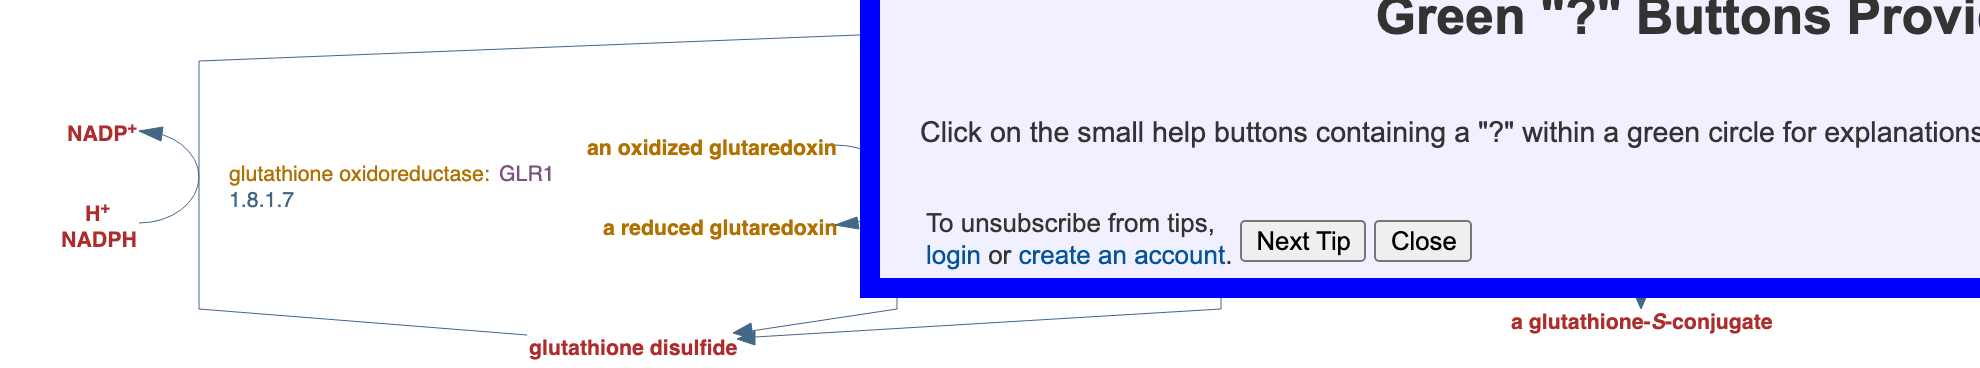
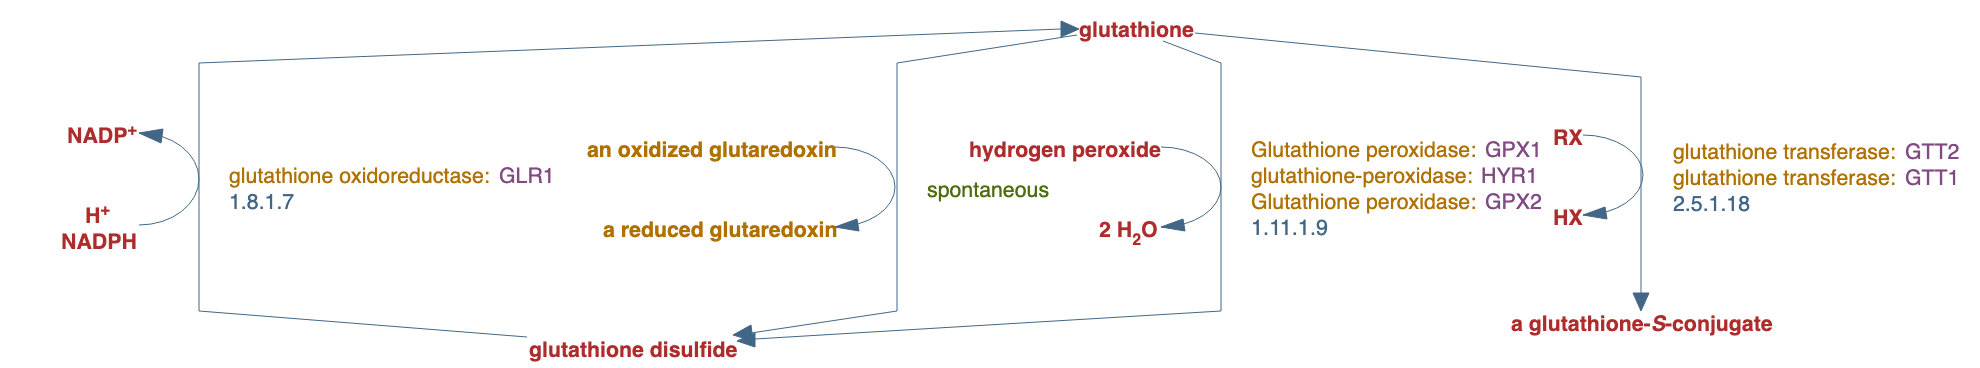
fix(pathway): re-capture 23 diagram images without UI overlay artifacts
23 of the 220 pre-captured pathway diagrams contained YeastPathways UI
overlays: the intermittent 'Green ?' tips popup (11 images) and/or the
OPERATIONS side panel (13 images, PRPP-PWY-1 had both). Re-captured
with the same recipe (NEW-IMAGE detail-level=2, 2x scale, diagram
canvas element screenshot) after removing #navBox and the tip dialog
before each shot. All 23 verified pixel- and visually-clean and match
the original image dimensions exactly.

Add scripts/capture_pathway_images.py so future re-captures reuse the
recipe and overlay dismissal instead of reconstructing them.

diff --git a/scripts/capture_pathway_images.py b/scripts/capture_pathway_images.py
@@ -1,0 +1,122 @@
+"""Re-capture SGD pathway diagram images from YeastPathways.
+
+Same recipe as the original capture (detail-level=2, 2x scale, screenshot of the
+diagram canvas element) plus dismissal of the two UI overlays that contaminated
+the first pass: the "Green ?" tip popup and the OPERATIONS side panel (#navBox).
+"""
+import sys
+import numpy as np
+from PIL import Image
+from playwright.sync_api import sync_playwright
+
+IDS = [
+    "ALL-CHORISMATE-PWY-1", "ARO-PWY-1", "COMPLETE-ARO-PWY-1", "DENOVOPURINE2-PWY",
+    "GLUT-REDOX2-PWY", "P4-PWY-1", "PHOS-PWY", "PRPP-PWY-1", "PWY-2201", "PWY-6125",
+    "PWY3O-1", "PWY3O-2", "PWY3O-20", "PWY3O-285", "PWY3O-4108", "PWY3O-4153",
+    "PWY3O-450", "PWY3O-5962", "PWY3O-661", "PWY3O-8514", "PWY3O-862",
+    "SPHINGOLIPID-SYN-PWY-1", "YEAST-RNT-SALV",
+]
+URL = "https://pathway.yeastgenome.org/YEAST/NEW-IMAGE?type=PATHWAY&object={}&detail-level=2"
+CANVAS = '[id^="canvas-WG_"][id*="_PWY_DIAGRAM"]'
+
+CLEANUP_JS = """() => {
+    const removed = [];
+    // 1. OPERATIONS side panel
+    const nav = document.getElementById('navBox');
+    if (nav) { nav.remove(); removed.push('navBox'); }
+    // 2. Tip popup ("Green ? Buttons Provide Help" / "Pathway Tools Tip") -
+    //    remove the outermost absolutely-positioned ancestor of the tip text
+    for (const el of [...document.querySelectorAll('div')]) {
+        const t = el.textContent || '';
+        if (/Provide Help|Next Tip|Pathway Tools Tip/.test(t)) {
+            let target = null, a = el;
+            while (a && a !== document.body) {
+                const pos = getComputedStyle(a).position;
+                if (pos === 'absolute' || pos === 'fixed') target = a;
+                a = a.parentElement;
+            }
+            if (target) { target.remove(); removed.push('tipBox'); break; }
+        }
+    }
+    // 3. Belt and braces: hide any remaining positioned overlay that intersects
+    //    the diagram canvas (except the transparent WGoverlayCanvas, which the
+    //    original captures included)
+    const canvas = document.querySelector('CANVAS_SEL');
+    const c = canvas.getBoundingClientRect();
+    for (const el of [...document.body.querySelectorAll('div, table, ul')]) {
+        if (el.contains(canvas) || canvas.contains(el)) continue;
+        const s = getComputedStyle(el);
+        if (s.position !== 'absolute' && s.position !== 'fixed') continue;
+        if (s.visibility === 'hidden' || s.display === 'none') continue;
+        const r = el.getBoundingClientRect();
+        if (r.width < 5 || r.height < 5) continue;
+        const overlaps = r.left < c.right && r.right > c.left &&
+                         r.top < c.bottom && r.bottom > c.top;
+        if (overlaps && el.id !== 'WGoverlayCanvas') {
+            el.style.visibility = 'hidden';
+            removed.push('overlay:' + (el.id || el.className || el.tagName));
+        }
+    }
+    return removed;
+}""".replace("CANVAS_SEL", CANVAS)
+
+
+def has_artifacts(path):
+    a = np.asarray(Image.open(path).convert("RGB"))
+    r, g, b = a[:, :, 0].astype(int), a[:, :, 1].astype(int), a[:, :, 2].astype(int)
+    blue = int(((b > 180) & (r < 100) & (g < 100)).sum())
+    grey = (abs(r - g) < 8) & (abs(g - b) < 8) & (abs(r - b) < 8) & (r > 215) & (r < 250)
+    h, w = grey.shape
+    solid = 0
+    for y0 in range(0, h - 39, 40):
+        for x0 in range(0, w - 39, 40):
+            if grey[y0:y0 + 40, x0:x0 + 40].mean() > 0.85:
+                solid += 1
+    return blue > 500 or solid >= 4, blue, solid
+
+
+def capture(page, pid):
+    page.goto(URL.format(pid), wait_until="networkidle", timeout=90000)
+    page.wait_for_selector(CANVAS, timeout=60000)
+    # wait until the canvas size is stable (diagram fully laid out)
+    prev = None
+    for _ in range(20):
+        page.wait_for_timeout(1500)
+        size = page.eval_on_selector(CANVAS, "el => [el.width, el.height]")
+        if size == prev:
+            break
+        prev = size
+    removed = page.evaluate(CLEANUP_JS)
+    page.wait_for_timeout(500)
+    out = f"out/{pid}.png"
+    page.query_selector(CANVAS).screenshot(path=out, timeout=60000)
+    return out, removed
+
+
+with sync_playwright() as p:
+    browser = p.chromium.launch()
+    failures = []
+    for pid in IDS:
+        ok = False
+        for attempt in (1, 2):
+            context = browser.new_context(
+                viewport={"width": 1700, "height": 1400}, device_scale_factor=2)
+            page = context.new_page()
+            try:
+                out, removed = capture(page, pid)
+                bad, blue, solid = has_artifacts(out)
+                size = Image.open(out).size
+                print(f"{pid}: {size[0]}x{size[1]} removed={removed} "
+                      f"blue={blue} greyblocks={solid}"
+                      + ("  << ARTIFACT, retrying" if bad else ""), flush=True)
+                if not bad:
+                    ok = True
+                    break
+            except Exception as e:
+                print(f"{pid}: attempt {attempt} FAILED: {e}", flush=True)
+            finally:
+                context.close()
+        if not ok:
+            failures.append(pid)
+    print("\nDone. failures:", failures or "none")
+    sys.exit(1 if failures else 0)
